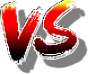
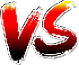
Finished the current games page
Also made the SimpleUsername component customizable, where icon and gradient changes depending on the color prop passed in. Hope you don't mind the flexboxes that I used >.<

diff --git a/client/public/components/CurrentGames.js b/client/public/components/CurrentGames.js
@@ -1,5 +1,6 @@
 import React from 'react'
 import '../style/CurrentGames.sass'
+import { SimpleUsername } from './gameInterface/SimpleUsername'
 
 export const CurrentGames = () => {
   return (
@@ -15,16 +16,16 @@ export const CurrentGames = () => {
           </div>
           <div className='CGInfo'>
             <h2 className='CGTitle'>GL STD [T1]: hoochinutz vs Femboy</h2>
-            <h3 className='CGSubtitle'>Day 13: 06:23:22 until Clock Expires</h3>
+            <h3 className='CGSubtitle'><span className='CGSubtitleDay'>Day 13</span>: 06:23:22 until Clock Expires</h3>
             <h4 className='CGMapName'>Caustic Finale</h4>
           </div>
           <div className='CGCharacter CGCharacter2'>
             <img src="../images/samiChar.webp" alt="character 2"/>
           </div>
           <div className='CGUsers'>
-            <h3>Femboy</h3>
+            <SimpleUsername name="Femboy" color="blue"/>
             <img className="VSImage" src="../images/vs.png" alt="vs"/>
-            <h3>Mipin</h3>
+            <SimpleUsername name="Mipin" color="red"/>
           </div>
         </article>
       </div>

diff --git a/client/public/components/gameInterface/SimpleUsername.js b/client/public/components/gameInterface/SimpleUsername.js
@@ -1,14 +1,25 @@
 import React from 'react'
 import '../../style/gameInterface/simpleUsername.sass'
 
-export const SimpleUsername = ({name, color = "red"}) => {
+const usernameColors = {
+  "red": {
+    gradient: "linear-gradient(90deg, rgba(255, 0, 0, 0.84) 0%, #690000 100%)",
+    icon: "../../images/oslogo1.png"
+  },
+  "blue": {
+    gradient: "linear-gradient(90deg, rgba(35, 66, 186, 0.84) 0%, #0B2070 100%)",
+    icon: "../../images/oslogo2.png"
+  }
+}
 
-  // const color = 
-  const style = { "background": "linear-gradient(90deg, rgba(35, 66, 186, 0.84) 0%, #0B2070 100%)"};
+export const SimpleUsername = ({name="name", color = "red"}) => {
+  // color specifies what gradient the background of the username will be
+
+  const style = { "background": usernameColors[color]["gradient"]};
   return (
     <div className="usernameContainer" style={style}>
       <h3>{name}</h3>
-      <img className="userContainerIcon" src="../../images/oslogo2.png"/>
+      <img className="userContainerIcon" src={usernameColors[color]["icon"]}/>
     </div>
   )
 }

diff --git a/client/public/style/CurrentGames.sass b/client/public/style/CurrentGames.sass
@@ -34,6 +34,8 @@
       text-align: center
     .CGTitle
       color: variables.$color-primary-variant
+    .CGSubtitleDay
+      color: variables.$color-primary-variant
     .CGMapName
       color: variables.$color-primary
 
@@ -43,13 +45,15 @@
     right: 0
     margin-left: auto 
     margin-right: auto 
-    width: 50%
+    width: 60%
     bottom: 30px
     display: flex
     flex-direction: row
-    justify-content: space-around
+    justify-content: space-between
+    align-items: end
     .VSImage
       width: 79px
+      filter: drop-shadow(8px 8px 1px rgba(0, 0, 0, 0.5))
 
   .CGCharacter
     width: 250px
